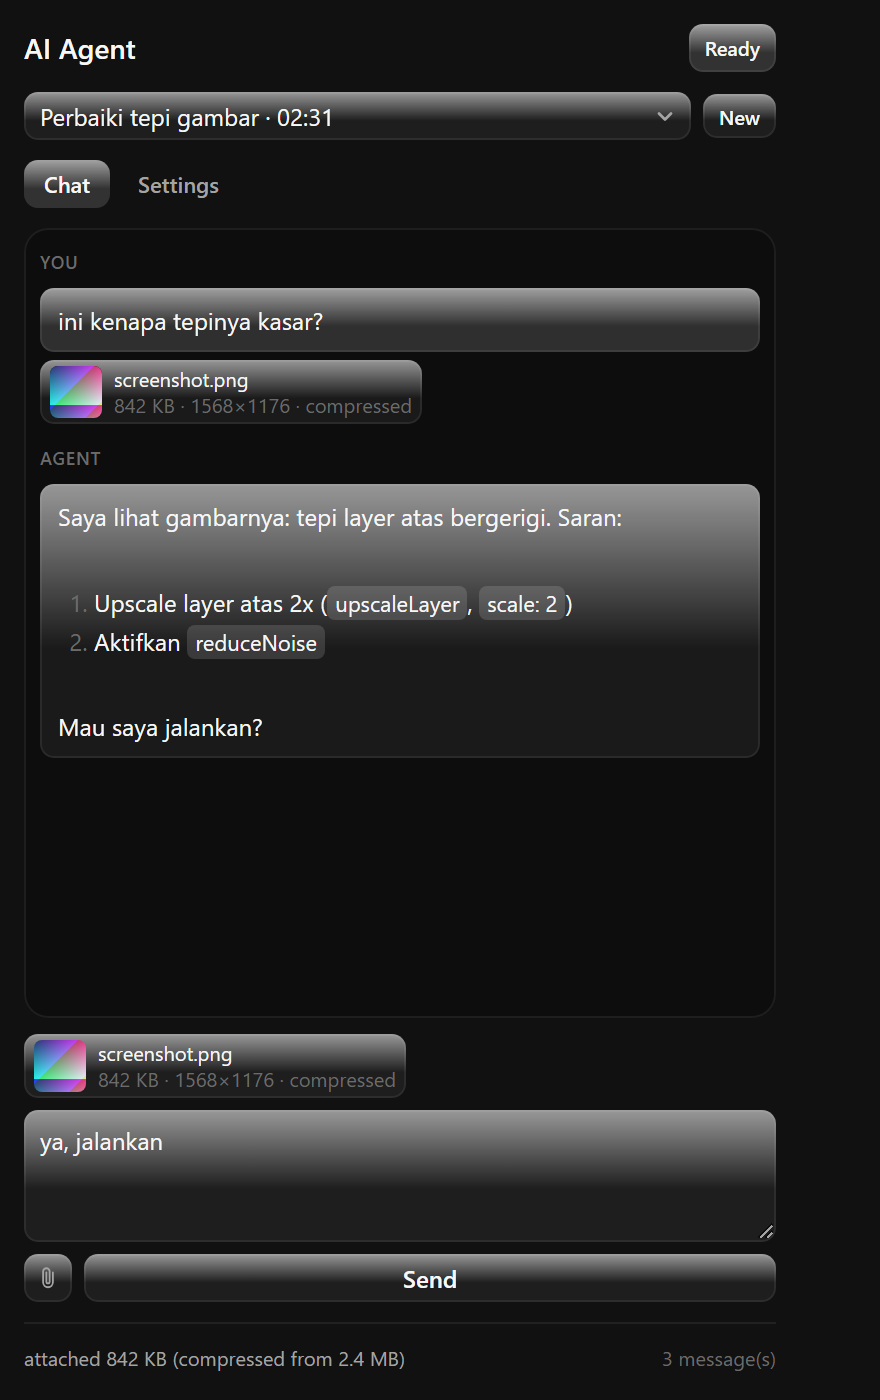
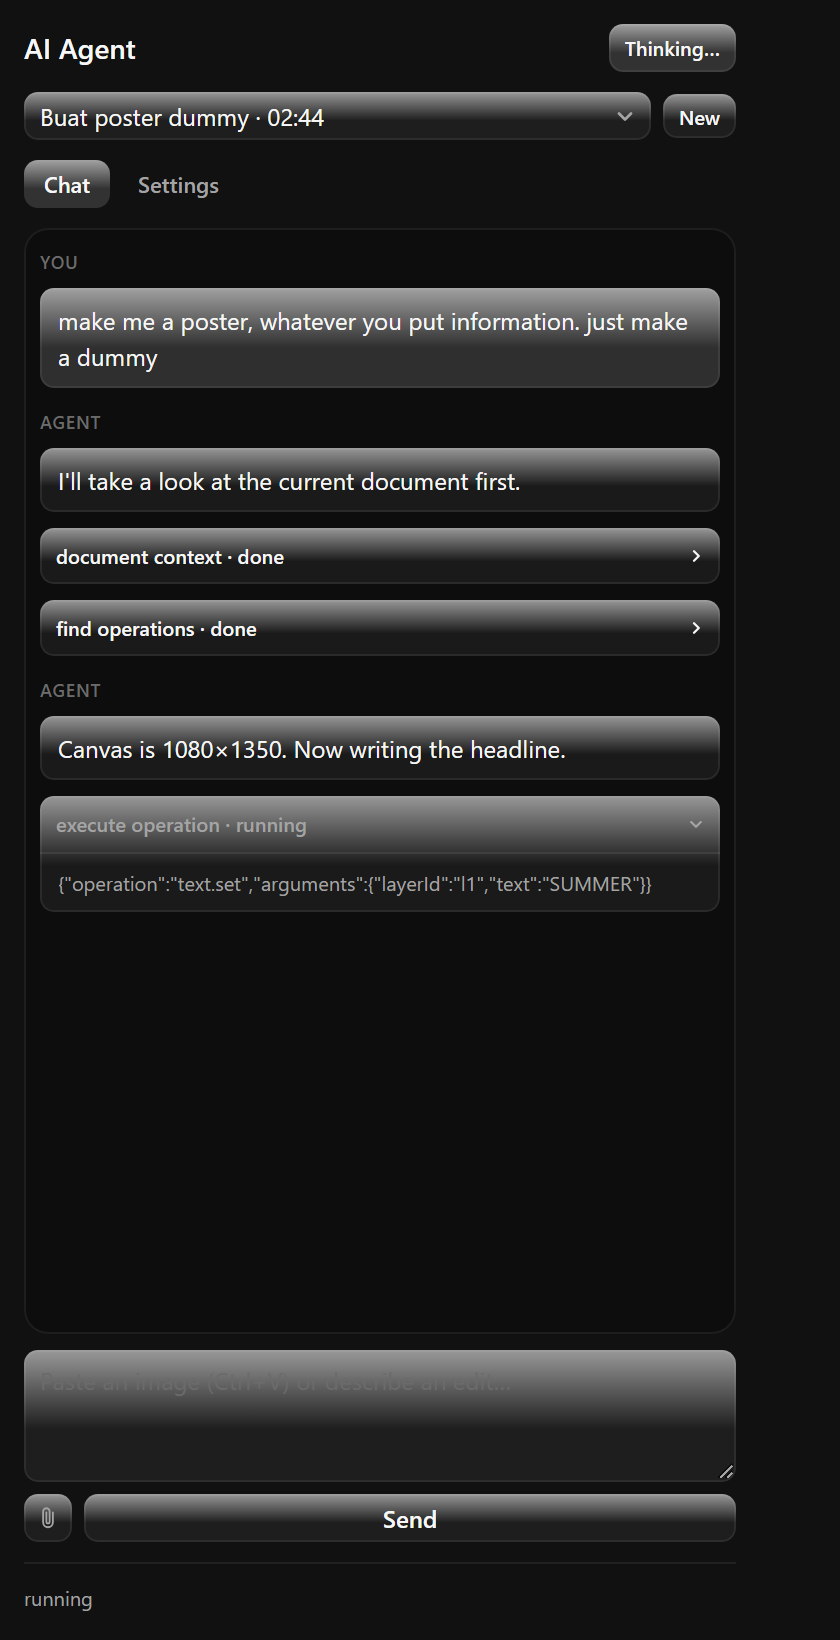
fix: keep operation cards full height and fold them after each turn

diff --git a/plugin/app.js b/plugin/app.js
@@ -200,13 +200,20 @@ function renderAttachments(images) {
   return row;
 }
 
-function addToolCard(name, args) {
+const TOOL_STATE_LABEL = { ok: "done", error: "failed", denied: "declined", pending: "running" };
+
+function addToolCard(name, args, options) {
   if (el.emptyHint && el.emptyHint.parentNode) el.emptyHint.remove();
+  const streaming = Boolean(options && options.streaming);
   const card = document.createElement("details");
   card.className = "tool";
-  card.dataset.state = "pending";
+  card.dataset.state = streaming ? "pending" : "ok";
+  // Streaming cards stay open so the work is visible; restored history stays folded.
+  card.open = streaming;
   const summary = document.createElement("summary");
-  summary.textContent = name.replace(/^photon_/, "");
+  const label = name.replace(/^photon_/, "");
+  summary.textContent = streaming ? label + " · running" : label;
+  summary.dataset.label = label;
   const code = document.createElement("pre");
   code.className = "code";
   code.textContent = JSON.stringify(args || {}, null, 1);
@@ -219,11 +226,18 @@ function addToolCard(name, args) {
 function updateToolCard(card, state, output) {
   if (!card) return;
   card.dataset.state = state;
+  const summary = card.querySelector("summary");
+  if (summary) {
+    const label = summary.dataset.label || summary.textContent;
+    summary.dataset.label = label;
+    summary.textContent = label + " · " + (TOOL_STATE_LABEL[state] || state);
+  }
   if (output === undefined) return;
   const code = card.querySelector(".code");
   if (!code) return;
   const text = typeof output === "string" ? output : JSON.stringify(output, null, 1);
   code.textContent = code.textContent + "\n→ " + (text.length > 1400 ? text.slice(0, 1400) + "…" : text);
+  scrollToEnd();
 }
 
 /* ---------- settings ---------- */
@@ -612,7 +626,7 @@ async function send() {
     shouldStop: () => stopRequested,
     onEvent(event) {
       if (event.type === "assistant" && event.text) addMessage("assistant", event.text);
-      else if (event.type === "tool") cards.push(addToolCard(event.name, event.arguments));
+      else if (event.type === "tool") cards.push(addToolCard(event.name, event.arguments, { streaming: true }));
       else if (event.type === "result") {
         const card = cards.find((item) => item.dataset.state === "pending");
         updateToolCard(card, "ok", event.output);
@@ -648,6 +662,9 @@ async function send() {
     running = false;
     el.send.disabled = false;
     el.stop.hidden = true;
+    // The turn is over: fold the operation cards so the transcript stays compact.
+    // They are plain <details>, so the user can reopen any of them.
+    for (const card of cards) card.open = false;
     if (window.syncCustomSelects) window.syncCustomSelects();
   }
 }

diff --git a/plugin/panel.css b/plugin/panel.css
@@ -240,6 +240,12 @@ select:focus-visible {
   border-radius: 26px;
 }
 
+/* Flex children must not shrink: without this the operation cards get squashed into
+   thin bars instead of the list scrolling. */
+.messages > * {
+  flex: 0 0 auto;
+}
+
 .empty {
   margin: 0;
   color: var(--ag-muted);
@@ -383,12 +389,31 @@ select:focus-visible {
   display: flex;
   align-items: center;
   gap: 6px;
+  min-height: 24px;
   padding: 5px 8px;
   cursor: pointer;
   color: var(--ag-muted);
   font-size: 10px;
   font-weight: 600;
   list-style: none;
+}
+
+/* collapse affordance: chevron points right when closed, down when open */
+.tool > summary::after {
+  content: "";
+  flex: none;
+  width: 8px;
+  height: 8px;
+  margin-left: auto;
+  background-color: currentColor;
+  -webkit-mask: var(--ag-chevron) center / 8px 8px no-repeat;
+  mask: var(--ag-chevron) center / 8px 8px no-repeat;
+  transform: rotate(-90deg);
+  transition: transform 0.19s ease;
+}
+
+.tool[open] > summary::after {
+  transform: rotate(0deg);
 }
 
 .tool > summary::-webkit-details-marker {

diff --git a/README.md b/README.md
@@ -189,6 +189,16 @@ node tools/images-test.cjs      # 13 tests — mime detection, 1 MB ladder, clip
 
 ## Changelog
 
+### 0.3.6
+
+- Fixed the operation cards collapsing into thin bars: the message list is a flex column, and its
+  children were shrinking instead of scrolling. `.messages > * { flex: 0 0 auto }` keeps every card
+  at full height and lets the transcript scroll.
+- Operation cards now stay **expanded while the turn runs** (each shows `· running`, then
+  `· done` / `· failed`) and **fold automatically when the turn ends**, so a finished chat stays
+  compact. They are plain `<details>` with a chevron, so any card can be reopened with a click.
+  Cards restored from a saved conversation start folded.
+
 ### 0.3.5
 
 - Settings tidy-up: the conversation actions are a real 2×2 grid with equal column widths
